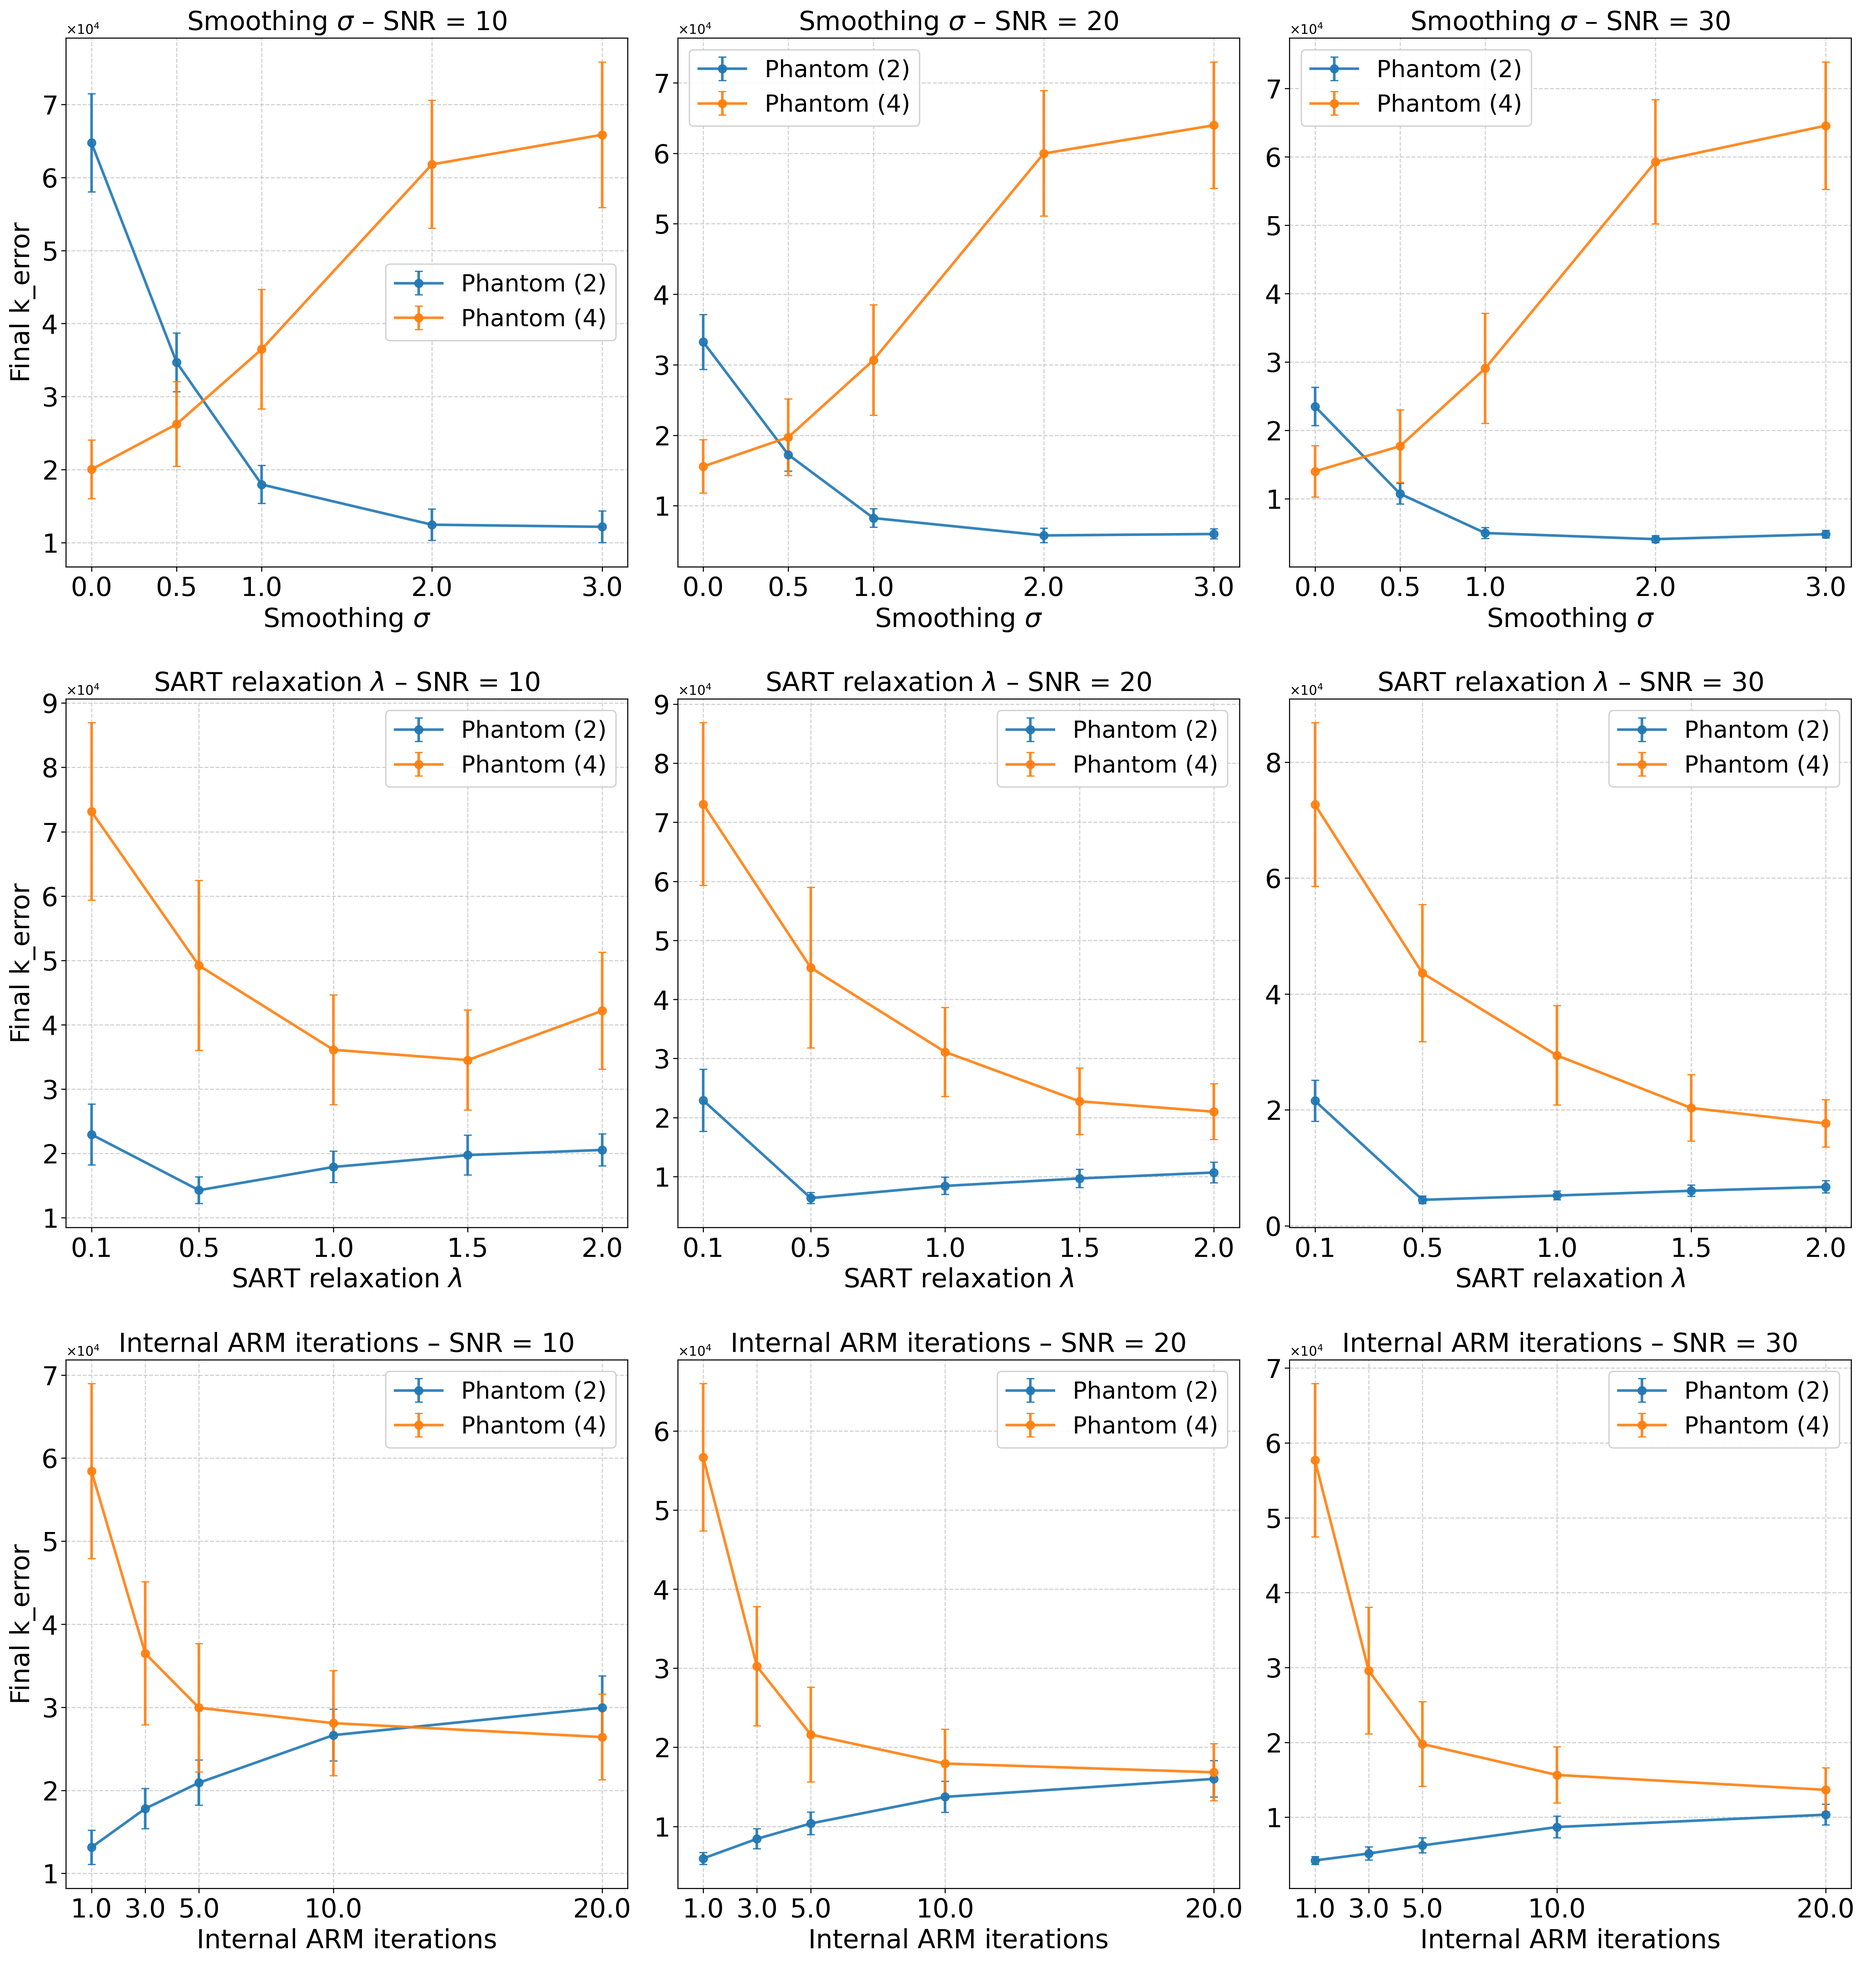
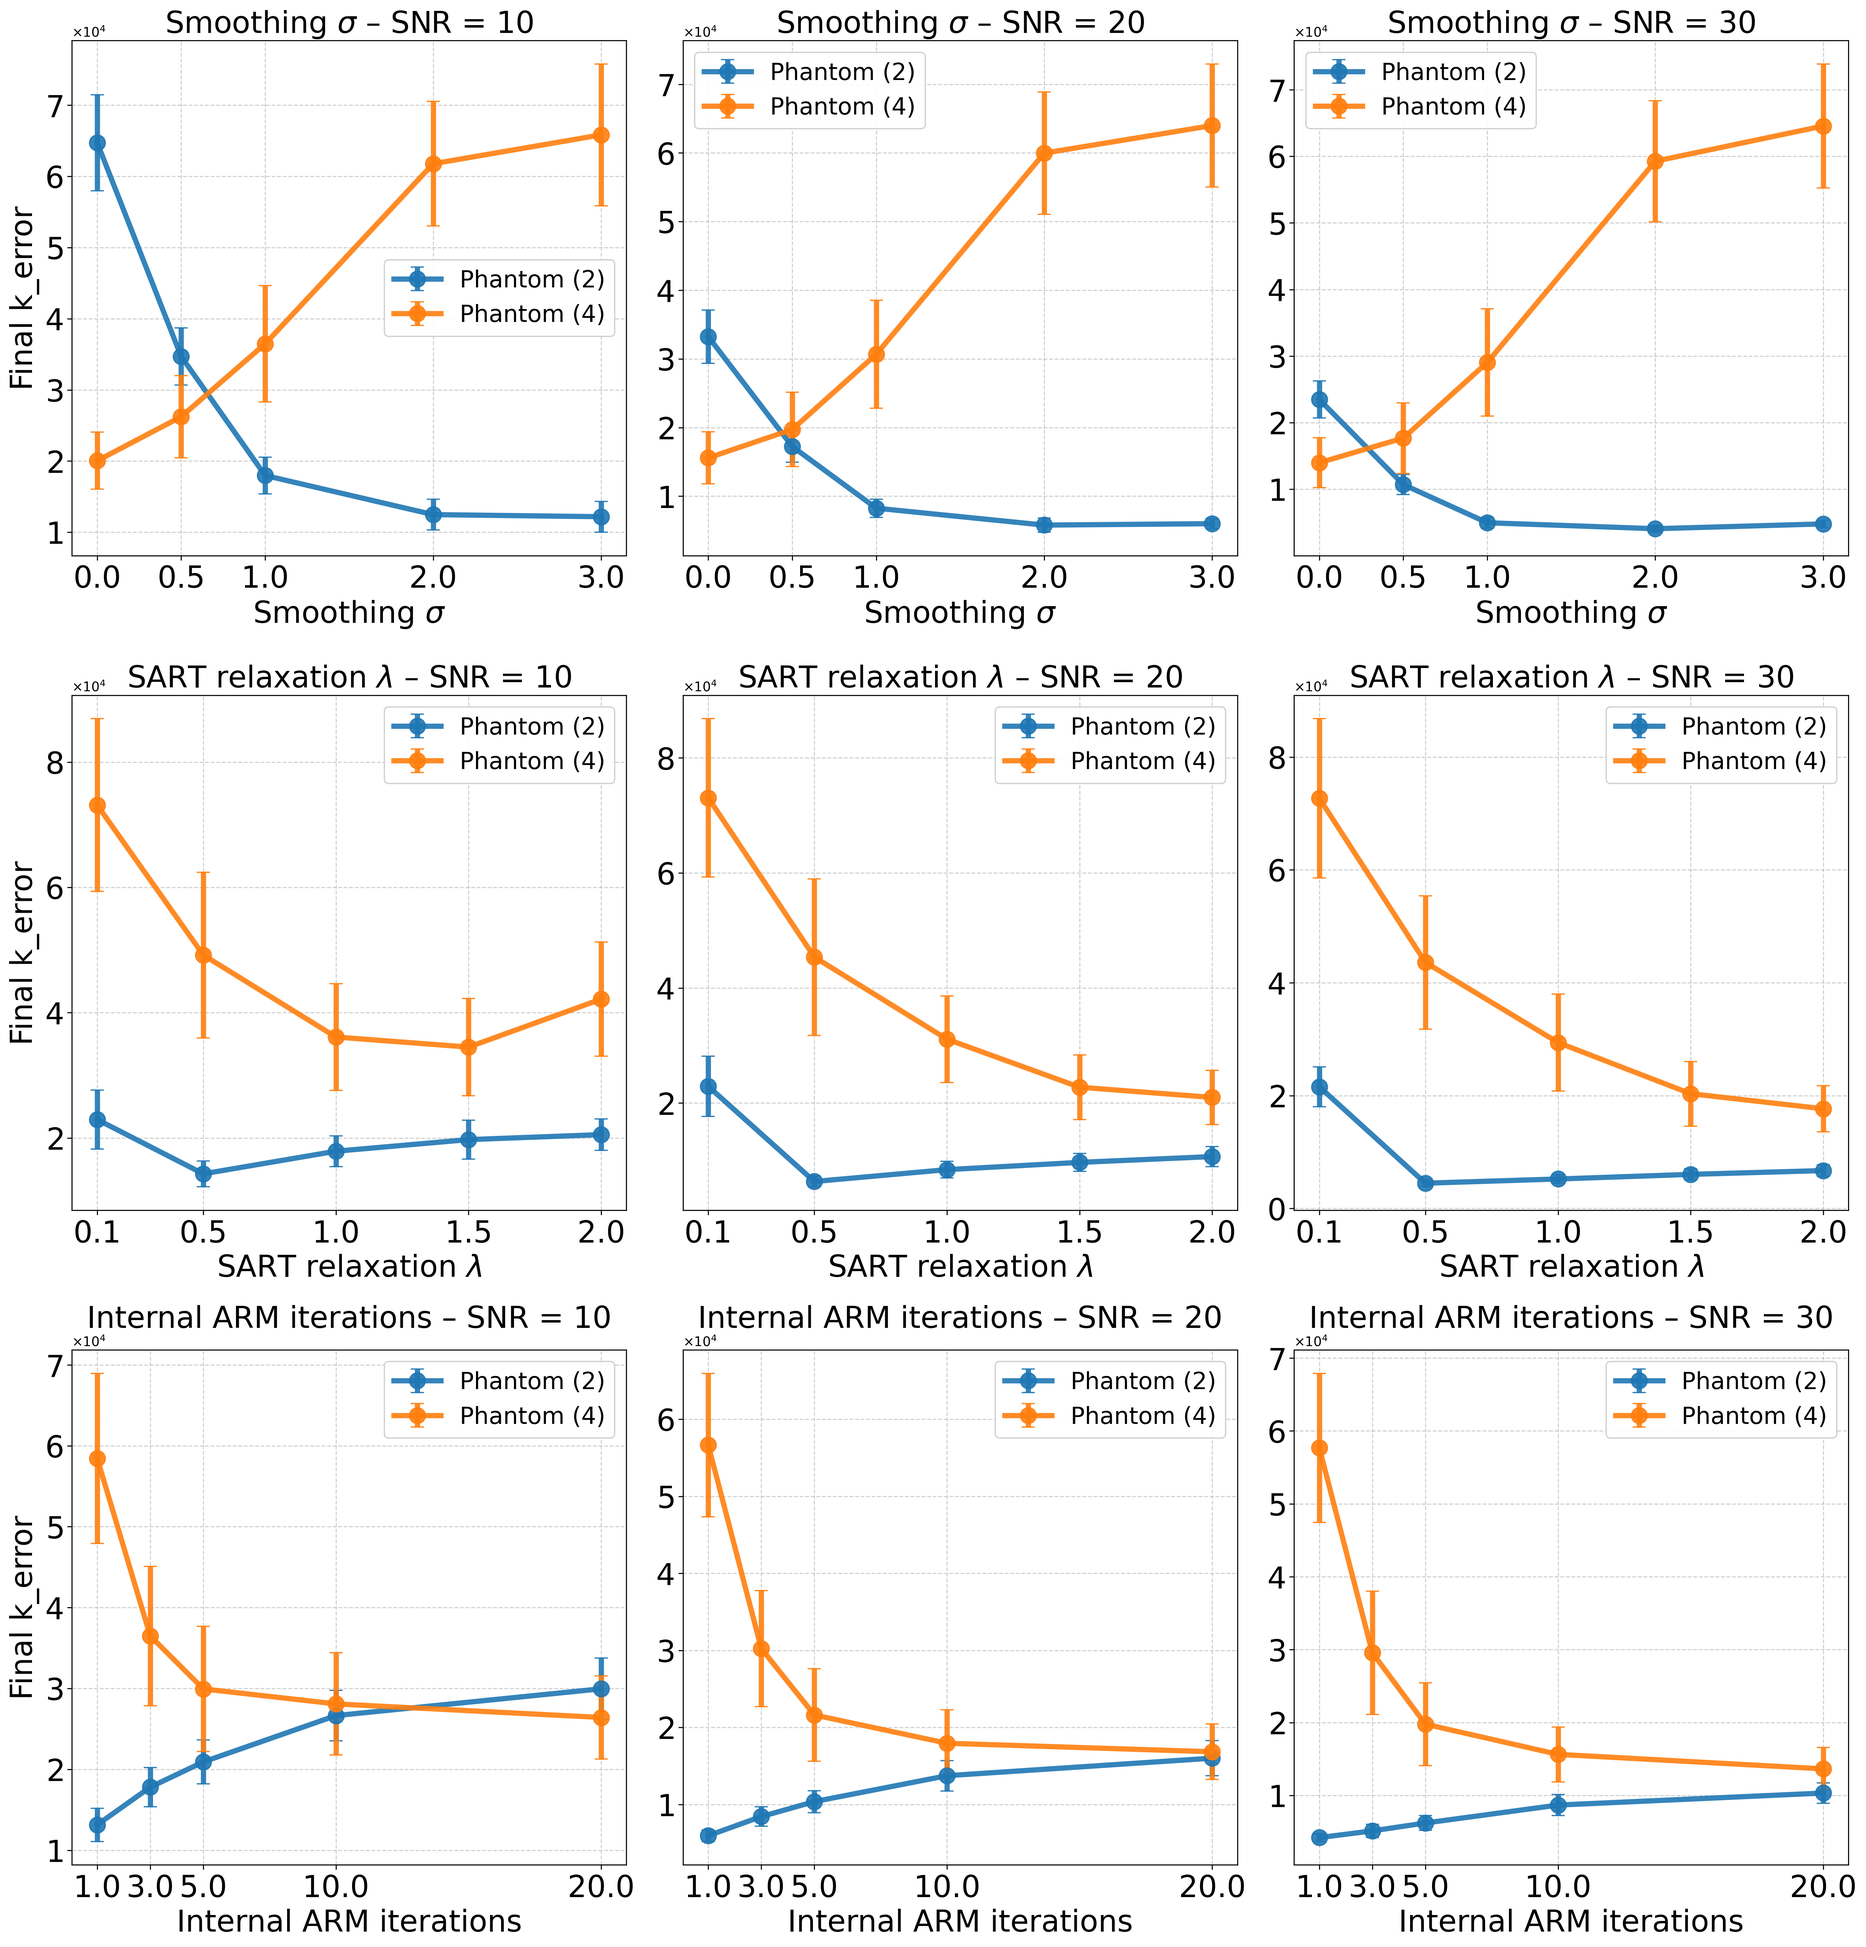
final results

diff --git a/PlotExperiment1.py b/PlotExperiment1.py
@@ -8,10 +8,9 @@ from typing import Dict, List, Tuple, Any
 # GLOBAL PLOTTING PARAMETERS - Adjust these as needed
 # ============================================================================
 # Font sizes
-TITLE_SIZE = 20          # Size for subplot titles
-SUPTITLE_SIZE = 16       # Size for overall figure super title
-AXIS_LABEL_SIZE = 20     # Size for x and y axis labels
-TICK_LABEL_SIZE = 20     # Size for tick labels
+TITLE_SIZE = 23          # Size for subplot titles
+AXIS_LABEL_SIZE = 23     # Size for x and y axis labels
+TICK_LABEL_SIZE = 23     # Size for tick labels
 LEGEND_FONT_SIZE = 18    # Size for legend text
 LEGEND_TITLE_SIZE = 18   # Size for legend title (if any)
 
@@ -20,10 +19,10 @@ FIGURE_WIDTH = 20        # Width of the entire figure in inches
 FIGURE_HEIGHT_PER_ROW = 7# Height per experiment row in inches
 
 # Marker and line settings
-MARKER_SIZE = 6          # Size of markers in line plots
-LINE_WIDTH = 2           # Width of lines in line plots
+MARKER_SIZE = 12          # Size of markers in line plots
+LINE_WIDTH = 4           # Width of lines in line plots
 BAR_WIDTH = 0.2          # Width of bars in bar plots
-ERRORBAR_CAPSIZE = 3     # Size of error bar caps
+ERRORBAR_CAPSIZE = 5     # Size of error bar caps
 
 # Grid and transparency
 GRID_ALPHA = 0.6         # Transparency of grid lines
@@ -108,7 +107,6 @@ def plot_all_experiments_combined():
     n_experiments = len(EXPERIMENTS)
     fig, axes = plt.subplots(n_experiments, 2, 
                             figsize=(FIGURE_WIDTH, FIGURE_HEIGHT_PER_ROW * n_experiments))
-    fig.suptitle("Hyperparameter Ablation Studies: Final k_error", fontsize=SUPTITLE_SIZE, y=1.02)
 
     if n_experiments == 1:
         axes = axes.reshape(1, -1)
@@ -200,7 +198,6 @@ def plot_all_experiments_combined():
     save_path = os.path.join(OUTPUT_DIR, "all_experiments_k_error.png")
     plt.savefig(save_path, dpi=DPI, bbox_inches='tight')
     print(f"Figure saved to {save_path}")
-    plt.show()
 
 # ============================================================================
 # Main function

diff --git a/PlotExperiment2.py b/PlotExperiment2.py
@@ -8,10 +8,10 @@ from typing import Dict, List, Tuple, Any
 # GLOBAL PLOTTING PARAMETERS - Adjust these as needed
 # ============================================================================
 # Font sizes
-TITLE_SIZE = 20          # Size for subplot titles
+TITLE_SIZE = 23          # Size for subplot titles
 SUPTITLE_SIZE = 16       # Size for overall figure super title
-AXIS_LABEL_SIZE = 20     # Size for x and y axis labels
-TICK_LABEL_SIZE = 20     # Size for tick labels
+AXIS_LABEL_SIZE = 23     # Size for x and y axis labels
+TICK_LABEL_SIZE = 23     # Size for tick labels
 LEGEND_FONT_SIZE = 18     # Size for legend text
 
 # Figure dimensions
@@ -19,10 +19,10 @@ FIGURE_WIDTH = 20        # Width of the entire figure in inches
 FIGURE_HEIGHT_PER_ROW = 7# Height per experiment row in inches
 
 # Marker and line settings
-MARKER_SIZE = 6          # Size of markers in line plots
-LINE_WIDTH = 2           # Width of lines in line plots
+MARKER_SIZE = 12          # Size of markers in line plots
+LINE_WIDTH = 4           # Width of lines in line plots
 BAR_WIDTH = 0.3          # Width of bars in bar plots
-ERRORBAR_CAPSIZE = 3     # Size of error bar caps
+ERRORBAR_CAPSIZE = 5     # Size of error bar caps
 
 # Grid and transparency
 GRID_ALPHA = 0.6         # Transparency of grid lines
@@ -193,7 +193,6 @@ def plot_all_experiments_combined():
     save_path = os.path.join(OUTPUT_DIR, "all_experiments_k_error_SNR.png")
     plt.savefig(save_path, dpi=DPI, bbox_inches='tight')
     print(f"Figure saved to {save_path}")
-    plt.show()
 
 # ============================================================================
 # Main function
